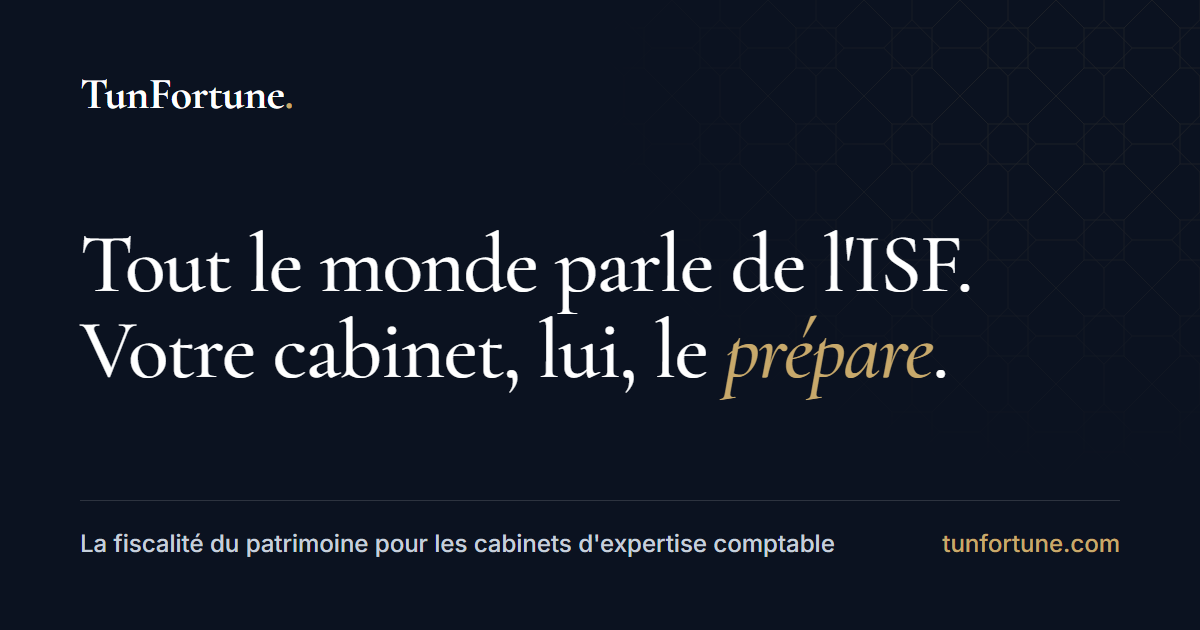
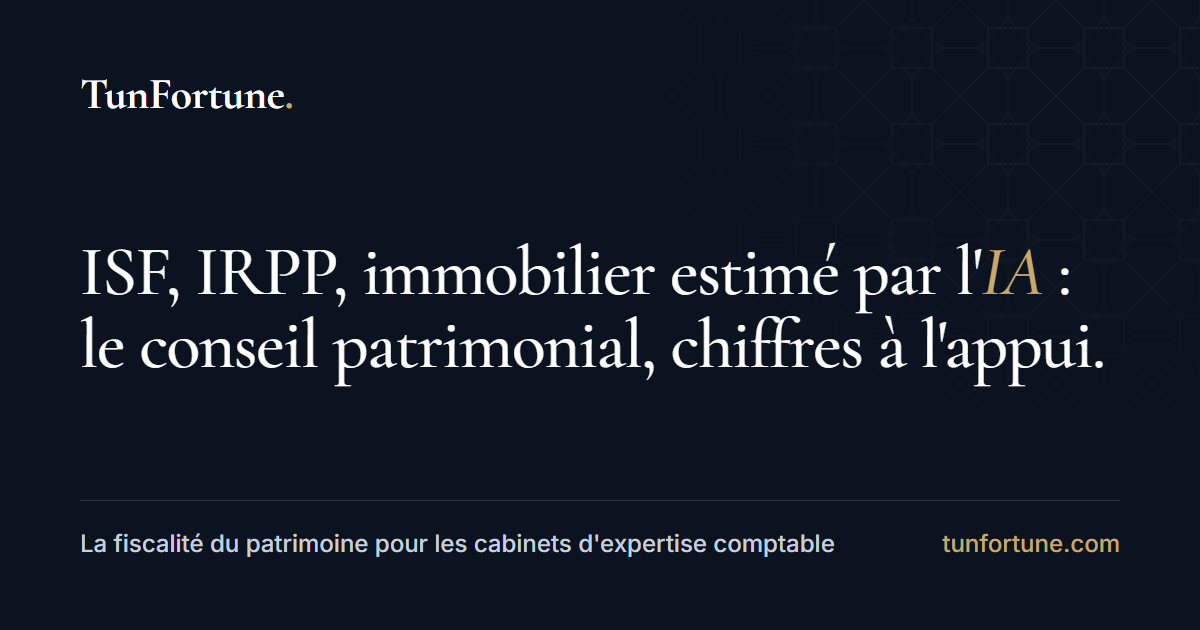
fix: update Open Graph image and modify hero section text for clarity

Changed region(s): [[0.0617, 0.3619, 0.925, 0.6333]]

diff --git a/scripts/og.html b/scripts/og.html
@@ -22,7 +22,7 @@
   }
   .mark { position: relative; font: 700 44px/1 'Cormorant Garamond', serif; letter-spacing: -0.01em; }
   .mark span, em { color: #c8a96b; }
-  h1 { position: relative; margin: 0; font: 500 84px/1.02 'Cormorant Garamond', serif; letter-spacing: -0.02em; }
+  h1 { position: relative; margin: 0; font: 500 70px/1.05 'Cormorant Garamond', serif; letter-spacing: -0.02em; }
   em { font-style: italic; }
   .foot { position: relative; display: flex; justify-content: space-between; align-items: center; padding-top: 28px; border-top: 1px solid rgba(255,255,255,0.14); font-size: 24px; color: #c6cfdb; }
   .foot b { color: #c8a96b; font-weight: 500; }
@@ -30,7 +30,7 @@
 </head>
 <body>
   <div class="mark">TunFortune<span>.</span></div>
-  <h1>Tout le monde parle de l'ISF.<br />Votre cabinet, lui, le <em>prépare</em>.</h1>
+  <h1>ISF, IRPP, immobilier estimé par l'<em>IA</em> :<br />le conseil patrimonial, chiffres à l'appui.</h1>
   <div class="foot">
     <span>La fiscalité du patrimoine pour les cabinets d'expertise comptable</span>
     <b>tunfortune.com</b>

diff --git a/src/config.ts b/src/config.ts
@@ -6,5 +6,5 @@ export const SITE = {
   // Clé gratuite à obtenir sur https://web3forms.com (envoyée par email).
   web3formsKey: '8c1e8580-6a42-4a1b-887f-71c10c0d0a5e',
   description:
-    "Logiciel pour cabinets d'expertise comptable : qualification, simulation et déclaration de l'impôt sur la fortune (article 88, loi de finances 2026).",
+    "Logiciel pour cabinets d'expertise comptable : simulation ISF et IRPP, estimation immobilière par IA et déclaration au format officiel (article 88, loi de finances 2026).",
 };
